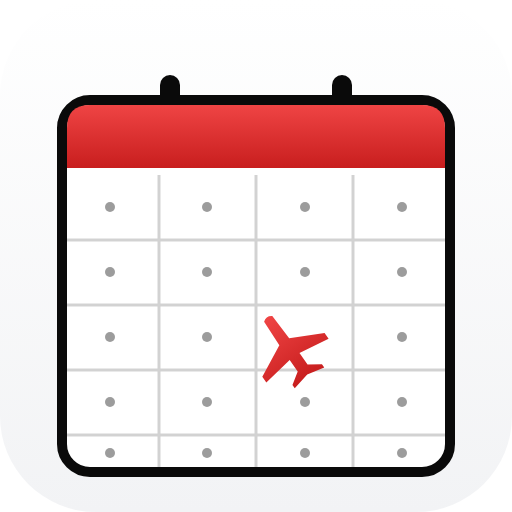
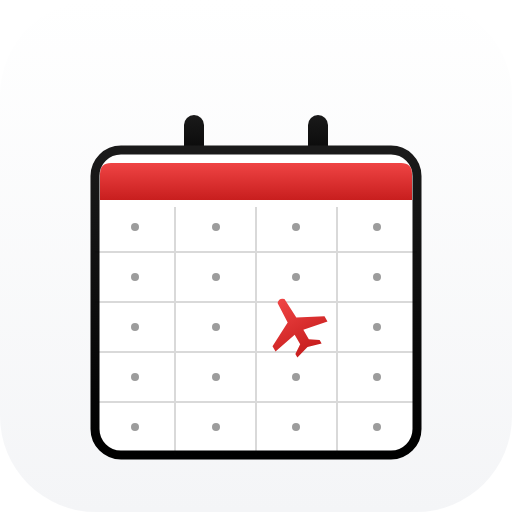
icono

Changed region(s): [[0.0938, 0.125, 0.9062, 0.9375]]

diff --git a/sw.js b/sw.js
@@ -5,7 +5,7 @@
 // ══════════════════════════════════════════
 
 // BUILD: 2026-05-28T20:00:00  ← este timestamp se reescribe en cada deploy
-const BUILD = '2026-05-28T12:26:19';
+const BUILD = '2026-05-28T13:05:42';
 const CACHE_NAME = `team-days-${BUILD}`;
 
 const ASSETS = [